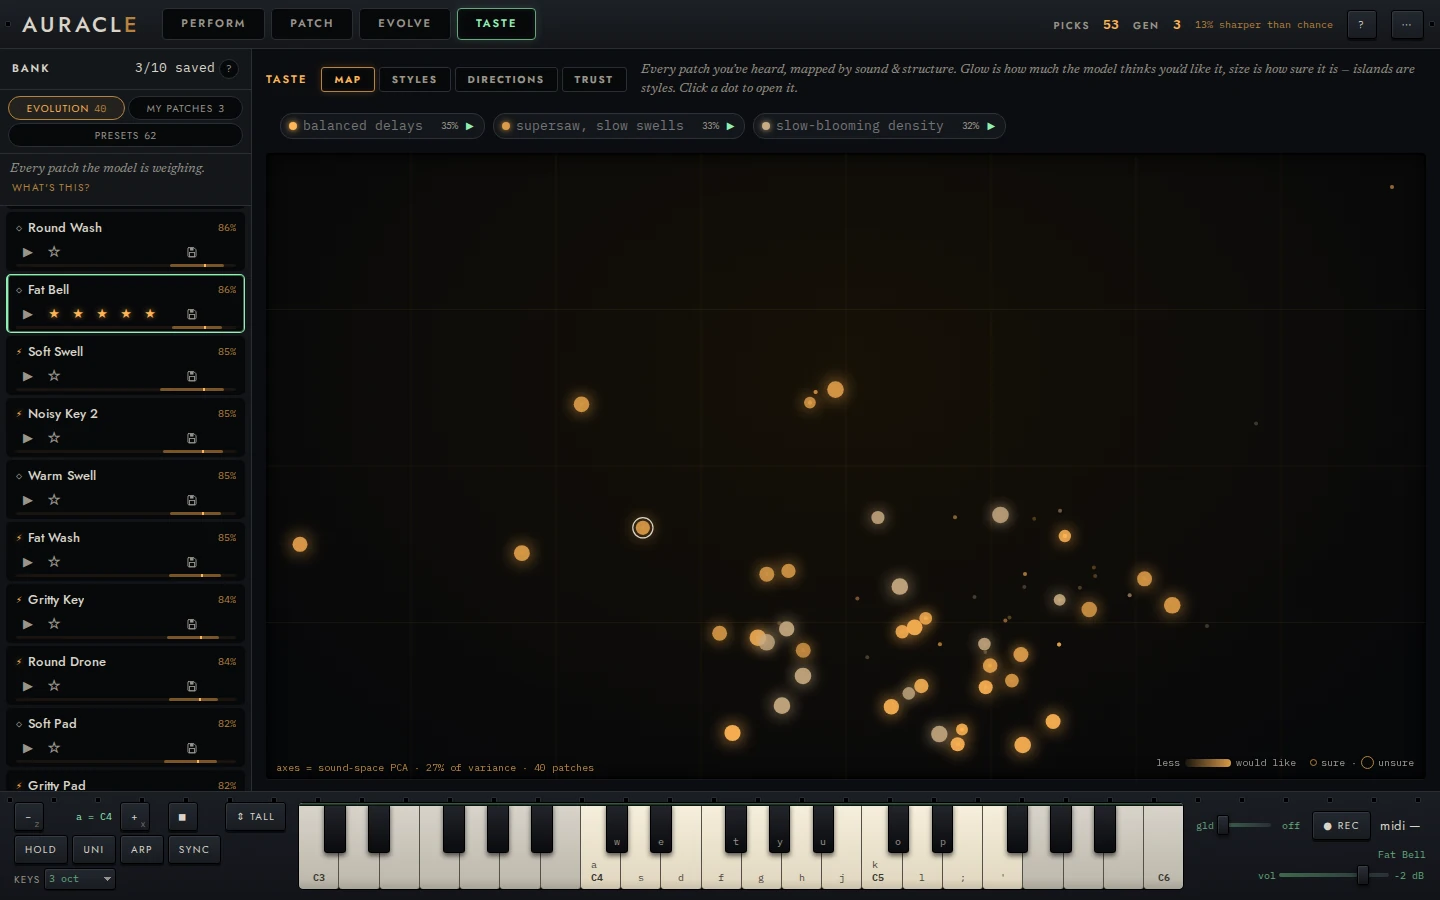
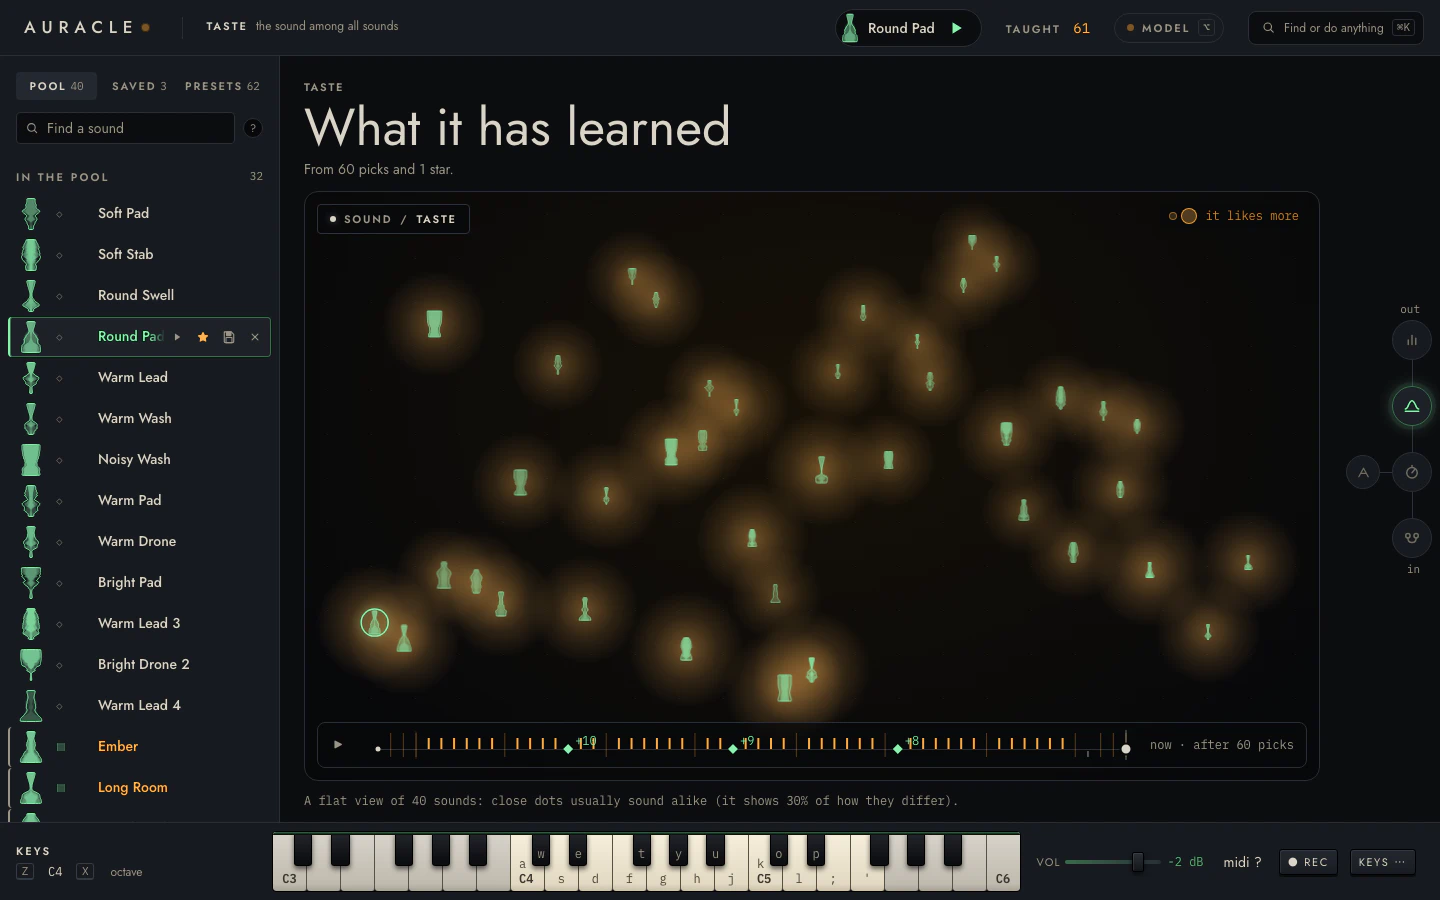
docs(site): screenshots of the five levels and ⌘K, with captions to match
The landing page and the guide showed the app before the shell: the ⋯
menu, TASTE's tabs, the DIRECTIONS plot. Re-taken with the new capture:
tabs for PERFORM, PATCH, EVOLVE, TASTE, LEARNING and ⌘K, LEARNING's panels
beside How it learns, and the guide's alt texts and sizes made true to the
new pictures. Unused crops (teach meter, TASTE's old tabs) are dropped, and
Plan-008's as-built names the re-capture.

Refs #343

Claude-Session: https://claude.ai/code/session_011nZYuMEYXMMMjq7ppsPkBV

diff --git a/www/landing/index.html b/www/landing/index.html
@@ -196,7 +196,7 @@
 <!-- ─── showcase ───────────────────────────────────────────────────────── -->
 <section class="band">
   <p class="eyebrow">The instrument</p>
-  <h2 class="h2">One instrument, four views.</h2>
+  <h2 class="h2">One instrument, five levels.</h2>
   <!-- films:tour --><!-- /films:tour -->
 
   <div class="shots">
@@ -209,11 +209,15 @@
               aria-selected="false" tabindex="-1" data-tab="evolve">evolve</button>
       <button class="shot-tab" role="tab" id="tab-taste" aria-controls="pane-taste"
               aria-selected="false" tabindex="-1" data-tab="taste">taste</button>
+      <button class="shot-tab" role="tab" id="tab-learning" aria-controls="pane-learning"
+              aria-selected="false" tabindex="-1" data-tab="learning">learning</button>
+      <button class="shot-tab" role="tab" id="tab-cmdk" aria-controls="pane-cmdk"
+              aria-selected="false" tabindex="-1" data-tab="cmdk">⌘K</button>
     </div>
 
     <div class="shot-pane" role="tabpanel" id="pane-perform" aria-labelledby="tab-perform" tabindex="0">
       <!-- films:pane-perform --><!-- /films:pane-perform -->
-      <img src="assets/screens/perform.webp" alt="The PERFORM view: on the left the sound's family and name, large, and a well holding its face, with the offer in B standing beside it in amber and a Blend slider under the two; on the right six round controls named Bright, Snap, Motion, Body, Grit, and Space, a list of the sound's own knobs they move, and the pads Wander, Next, Peek, Take, and Pass." width="1440" height="900" loading="eager" decoding="async">
+      <img src="assets/screens/perform.webp" alt="PERFORM: on the left the sound's family and name, large, and a well holding its face, with the offer in B standing beside it in amber and a slider from HOME to B under the two; on the right six round controls named Bright, Snap, Motion, Body, Grit, and Space, a list of the sound's own knobs they move, and Wander's dial and the pads Next, Peek, Take, and Pass." width="1440" height="900" loading="eager" decoding="async">
       <p class="shot-cap"><strong>PERFORM.</strong> Play the sound with controls named
       for what you hear, from BRIGHT to SPACE. Each one turns the few knobs that move
       this sound most in its direction. Press OFFER, and it grows a variant into B for
@@ -222,7 +226,7 @@
 
     <div class="shot-pane" role="tabpanel" id="pane-play" aria-labelledby="tab-play" tabindex="0" hidden>
       <!-- films:pane-play --><!-- /films:pane-play -->
-      <img src="assets/screens/play.webp" alt="The PATCH view: the bank on the left with match percentages; on the rack, Fat Bell's chain of phaser, distortion, chorus, compressor, and a second distortion, with envelope followers, a step sequencer, and mod envelopes driving it through amber modulation cables; the model's guess and its reasons above; the catalog of modules on the right; a keyboard docked along the bottom." width="1440" height="900" loading="lazy" decoding="async">
+      <img src="assets/screens/play.webp" alt="PATCH: the bank on the left; in the well, Round Pad's chain of oscillator, pluck, filter, mixers, compressor, wavefolder, and ladder filter, with a mod envelope, a hold, and a euclidean rhythm driving it through amber modulation cables; the model's guess across the top of the well; EVOLVE FROM THIS above it; a keyboard docked along the bottom." width="1440" height="900" loading="lazy" decoding="async">
       <p class="shot-cap"><strong>PATCH.</strong> Open a sound to see its patch: every
       module, cable, and knob, each knob in its own units. Change any of it while you
       play. Lock what you love, and ⚡&nbsp;EVOLVE FROM THIS grows new sounds around
@@ -231,7 +235,7 @@
 
     <div class="shot-pane" role="tabpanel" id="pane-evolve" aria-labelledby="tab-evolve" tabindex="0" hidden>
       <!-- films:pane-evolve --><!-- /films:pane-evolve -->
-      <img src="assets/screens/evolve.webp" alt="The EVOLVE view: the question Pick the one you'd reach for, with a teaching meter under it and a small taste map beside it, and two sounds side by side, each with its face large in a well." width="1440" height="900" loading="lazy" decoding="async">
+      <img src="assets/screens/evolve.webp" alt="EVOLVE: the question Pick the one you'd reach for, with a teaching meter under it and a small taste map beside it, and two sounds side by side, each with its face large in a well." width="1440" height="900" loading="lazy" decoding="async">
       <p class="shot-cap"><strong>EVOLVE.</strong> Pick between two sounds, and a meter
       counts the picks until it next redraws your taste. Press EVOLVE POOL, and what
       each generation did says what it changed, knob by knob and module by module.</p>
@@ -239,10 +243,25 @@
 
     <div class="shot-pane" role="tabpanel" id="pane-taste" aria-labelledby="tab-taste" tabindex="0" hidden>
       <!-- films:pane-taste --><!-- /films:pane-taste -->
-      <img src="assets/screens/taste-map.webp" alt="The TASTE map: a dark field scattered with amber dots of varying size and brightness, three named style chips above it, and a legend reading less / would like and sure / unsure." width="1440" height="900" loading="lazy" decoding="async">
-      <p class="shot-cap"><strong>TASTE.</strong> Your sounds on one map, placed by how
-      they sound and how they&rsquo;re built. A brighter dot is one it rates higher for
-      you; a bigger dot is one it&rsquo;s less sure about.</p>
+      <img src="assets/screens/taste-map.webp" alt="TASTE: every sound in the pool as its own small face on a dark field, each over an amber halo of its own size and brightness, a SOUND / TASTE switch set to TASTE, a legend reading it likes more, and a line of picks along the bottom running to now." width="1440" height="900" loading="lazy" decoding="async">
+      <p class="shot-cap"><strong>TASTE.</strong> Every sound on one map, close to the
+      ones it sounds like. The bigger and brighter the halo, the more it thinks
+      you&rsquo;ll like it. Scrub the line along the bottom to watch your taste take
+      shape, pick by pick.</p>
+    </div>
+
+    <div class="shot-pane" role="tabpanel" id="pane-learning" aria-labelledby="tab-learning" tabindex="0" hidden>
+      <img src="assets/screens/learning.webp" alt="LEARNING: what it weighs, a list of qualities of sound with an amber bar for each reaching toward likes less or likes more, under four style chips; where liking rises, the pool on a map with an amber arrow; and its forecasts, how many of its guesses before a pick came true." width="1440" height="900" loading="lazy" decoding="async">
+      <p class="shot-cap"><strong>LEARNING.</strong> What it weighs when it guesses what
+      you&rsquo;ll like, which way liking rises on the map, and how often its guesses
+      came true. Nothing hidden: copy it all as JSON, or open the math.</p>
+    </div>
+
+    <div class="shot-pane" role="tabpanel" id="pane-cmdk" aria-labelledby="tab-cmdk" tabindex="0" hidden>
+      <img src="assets/screens/cmdk.webp" alt="Find or do anything, open over PERFORM with wa typed: under SOUNDS, Warm Pad, Warm Lead, Warm Wash and more, each with its face; under ANYWHERE, Watch the films, Re-run the three-pick warm start, Record what you play, and PATCH." width="1440" height="900" loading="lazy" decoding="async">
+      <p class="shot-cap"><strong>⌘K.</strong> One list of every sound it holds and
+      everything it can do. Type a few letters of a sound, a level, or what you
+      want done, and press Enter.</p>
     </div>
   </div>
 
@@ -269,14 +288,14 @@
     </div>
 
     <figure class="learn-fig">
-      <!-- The DIRECTIONS panel, not the frame around it. This figure gets about
+      <!-- LEARNING's panels, not the frame around them. This figure gets about
            700px beside the copy, and a whole 1440px app frame at that width is
-           a 0.46× reduction: the plot becomes a smear and the bank and the
+           a 0.46× reduction: the bars become a smear and the bank and the
            keyboard take up half of it for nothing. -->
-      <img src="assets/screens/directions-detail.webp" alt="TASTE's directions: qualities of sound down the left and, for each, one amber bar per style reaching left or right of a center line, each with a thin line showing how far it could be off." width="1160" height="621" loading="lazy" decoding="async">
-      <figcaption>Which way each style leans, one quality of sound to a row. The thin
-      line is how far it could be off: where it crosses the center, the lean is still
-      a guess.</figcaption>
+      <img src="assets/screens/learning-detail.webp" alt="LEARNING's panels: what it weighs, one quality of sound to a row, each with an amber bar reaching toward likes less or likes more and a thin line showing how far it could be off, a ? on the rows still a guess; where liking rises, the pool on a map with an amber arrow; and its forecasts, scored against the picks that followed them." width="1016" height="607" loading="lazy" decoding="async">
+      <figcaption>What one style weighs, one quality of sound to a row. The thin line is
+      how far it could be off: where it crosses the center, the lean is still a
+      guess, and the row says so with a ?.</figcaption>
     </figure>
   </div>
 

diff --git a/www/docs/src/rack.md b/www/docs/src/rack.md
@@ -7,7 +7,7 @@ edit as a new sound, and locking what you like before you breed from it.</p>
 <!-- film:sounddesign --><!-- /film:sounddesign -->
 
 <figure>
-<img src="./img/rack-detail.webp" alt="Rack detail: wavefolder, mix, chorus, and wavetable modules with labeled knobs, among them RATE 8.23 Hz, BAL +4.0 dB, and MORPH 85%, joined by green audio cables and amber modulation cables ending in named destinations PITCH, THRESHOLD, DEPTH, and MORPH." loading="eager" width="560" height="300">
+<img src="./img/rack-detail.webp" alt="Rack detail: filter, mix, compressor, and wavefolder modules with labeled knobs, among them cutoff 1.09 kHz, bal +6.4 dB, and ratio 11.6:1, joined by green audio cables and amber modulation cables ending in named destinations CUTOFF and THRESHOLD, with the mod envelope, hold and euclid modules that drive them below." loading="eager" width="560" height="300">
 <figcaption><strong>Two cable colors, two meanings.</strong> Green carries
 sound; amber carries modulation, and each amber cable says what it lands
 on.</figcaption>

diff --git a/docs/plans/008-the-shell.md b/docs/plans/008-the-shell.md
@@ -550,6 +550,13 @@ into C2a and C2b; round 2's decisions govern PATCH):
   tabs), so the re-capture is a new shot list for the five levels, new
   crops in `encode-screens.sh` and new landing captions: #343, split off
   #132 so D could close.
+- **The re-capture (#343), as built:** `capture-screens.mjs` walks the rail
+  (`.rail-stop`), the bank's tabs and ⌘K, and shoots PERFORM, PATCH, EVOLVE,
+  TASTE, LEARNING, ⌘K open and the warm start; `encode-screens.sh` crops the
+  rack, the bank, a row, the warm start and LEARNING's panels from them; the
+  landing page shows five levels and ⌘K, with LEARNING's panels in place of
+  the old DIRECTIONS plot. The catalog's spec card (`spec-card.webp`,
+  `node-bank.webp`) has no shot yet and keeps its old image.
 - **The film selectors D leaves stale,** owed with the Wave 3 re-records as
   A's to C3's are: `#ovf-btn`, `#ovf-menu`, `.ovf-item`, `#export-btn`,
   `#patch-export-btn`, `#image-btn`, `#scope-btn`, `#engineer-btn`,

diff --git a/www/docs/src/views/play.md b/www/docs/src/views/play.md
@@ -14,7 +14,7 @@ sources to the amp, out through **OUT** into the sound’s
 on the next note you play.
 
 <figure>
-<img src="../img/play.webp" alt="PATCH: the bank on the left, the patch's head (its family, its name, how many modules it has) above the well, the modules in signal order across the well into OUT and the sound's face, and the keybed docked below." loading="eager" width="1440" height="900">
+<img src="../img/play.webp" alt="PATCH: the bank on the left, the patch's head (its family, its name, how many modules it has) above the well, the modules in signal order across the well, zoomed in, with a map of the whole patch in its corner, and the keybed docked below." loading="eager" width="1440" height="900">
 <figcaption><strong>PATCH.</strong> The bank on the left, the head and the
 well in the middle, the keybed below. Everything here is live while you edit
 it.</figcaption>

diff --git a/www/docs/src/introduction.md b/www/docs/src/introduction.md
@@ -26,7 +26,7 @@ rack of 45 modules with typed cables. You can play it without teaching it
 anything.
 
 <figure>
-<img src="./img/play.webp" alt="PATCH: the bank on the left, the patch's modules in signal order across its well, wired with green audio cables and amber modulation cables into OUT and the sound's face, and a keybed along the bottom." loading="eager" width="1440" height="900">
+<img src="./img/play.webp" alt="PATCH: the bank on the left, the patch's modules in signal order across its well, zoomed in, wired with green audio cables and amber modulation cables, the model's guess across the top of the well, and a keybed along the bottom." loading="eager" width="1440" height="900">
 <figcaption><strong>PATCH.</strong> The sound you’re playing, opened as a rack
 you can turn, rewire, and lock, live while you edit it.</figcaption>
 </figure>

diff --git a/www/docs/src/getting-started/first-session.md b/www/docs/src/getting-started/first-session.md
@@ -39,7 +39,7 @@ about thirty seconds, which is the difference between a model that has a
 guess by the end of this session and one that doesn’t.
 
 <figure>
-<img src="../img/warm-start.webp" alt="The warm-start card: nine named presets in a three-by-three grid, each with a one-line description and a play button, and two buttons below." loading="lazy" width="760" height="464">
+<img src="../img/warm-start.webp" alt="The warm-start card: nine named presets in a three-by-three grid, each with a one-line description and a play button, and two buttons below." loading="lazy" width="760" height="473">
 <figcaption><strong>The warm start.</strong> Nine presets, one per family
 first. The screenshot predates the current wording: the card now reads PICK
 THE THREE YOU’D REACH FOR.</figcaption>

diff --git a/changelog.d/levels-docs-shots.md b/changelog.d/levels-docs-shots.md
@@ -1,0 +1,8 @@
+### Changed: the site's screenshots show the five levels and ⌘K
+
+- **The website shows the instrument as it is now.** The landing page's
+  screenshots had shown the views from before the five levels, with the ⋯
+  menu and TASTE's old tabs. They are re-taken from the app: PERFORM, PATCH,
+  EVOLVE, TASTE, LEARNING and the ⌘K list each have a tab, and the figure
+  beside "How it learns" is LEARNING's panels. The guide's PATCH, EVOLVE,
+  PERFORM, bank and warm-start pictures are re-taken too.
